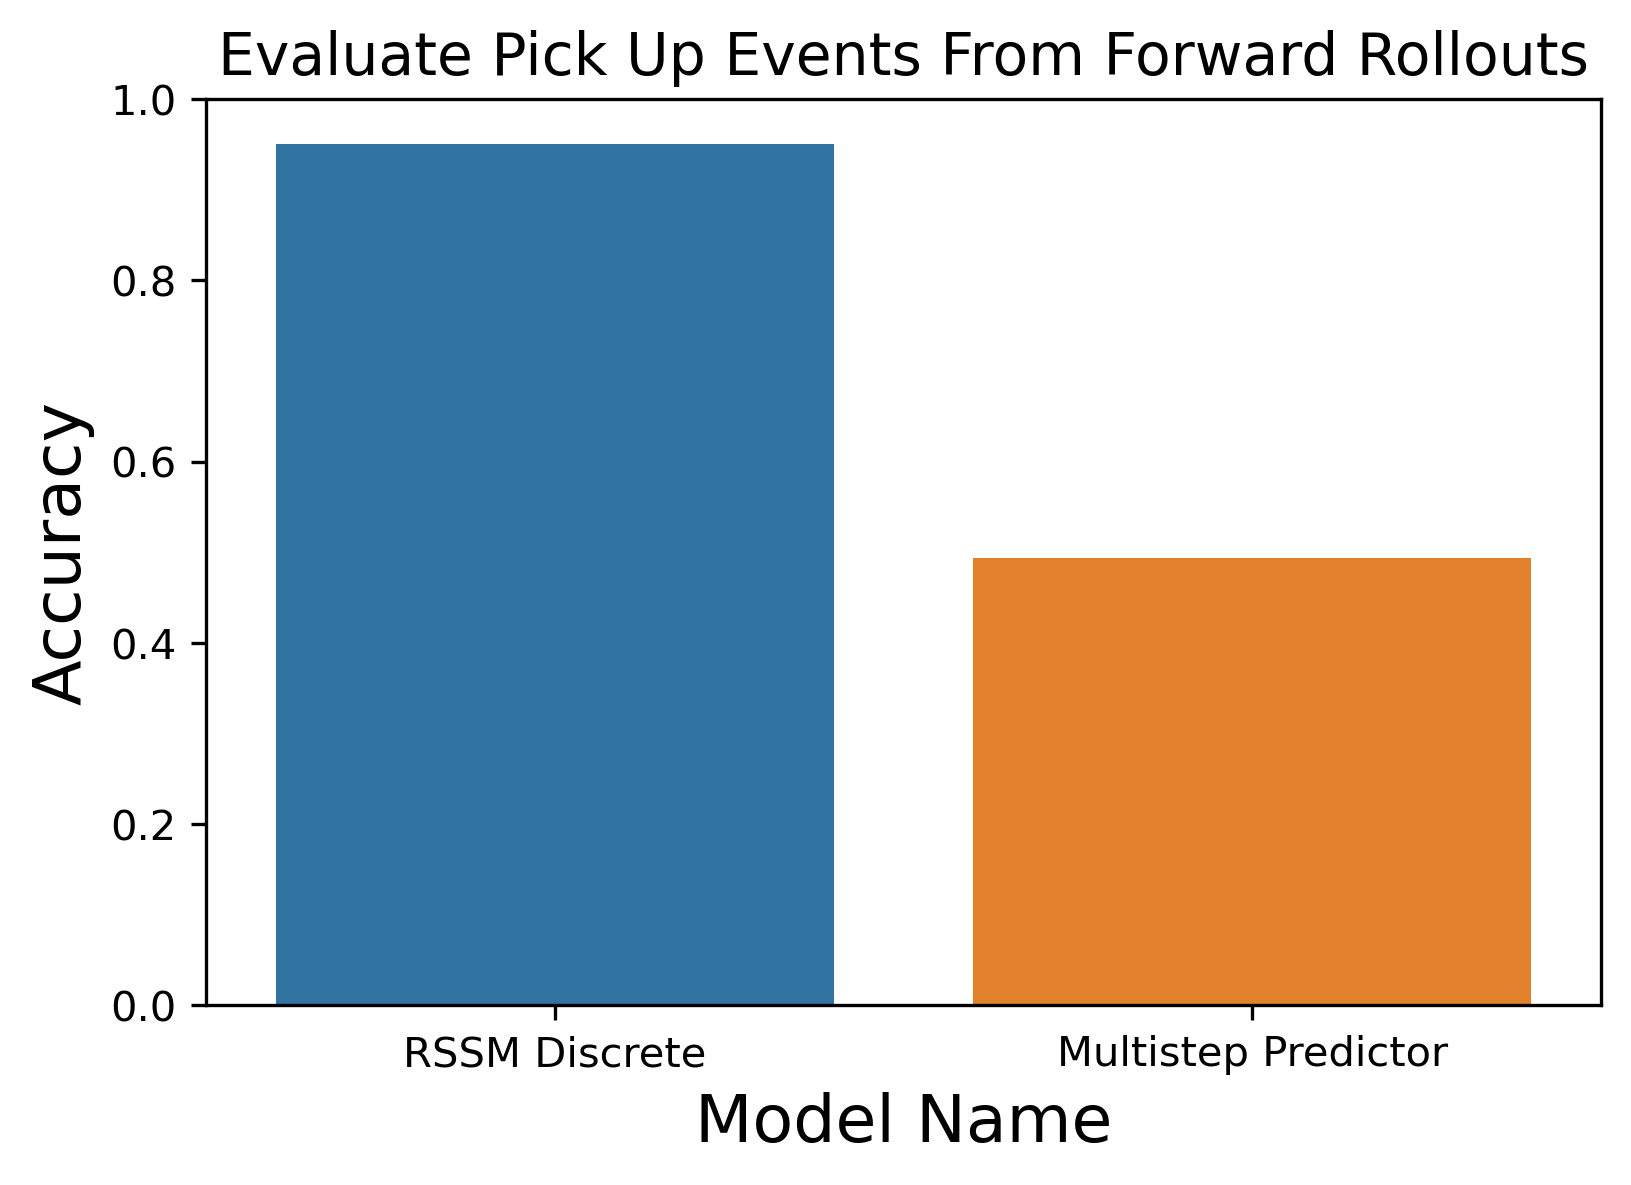
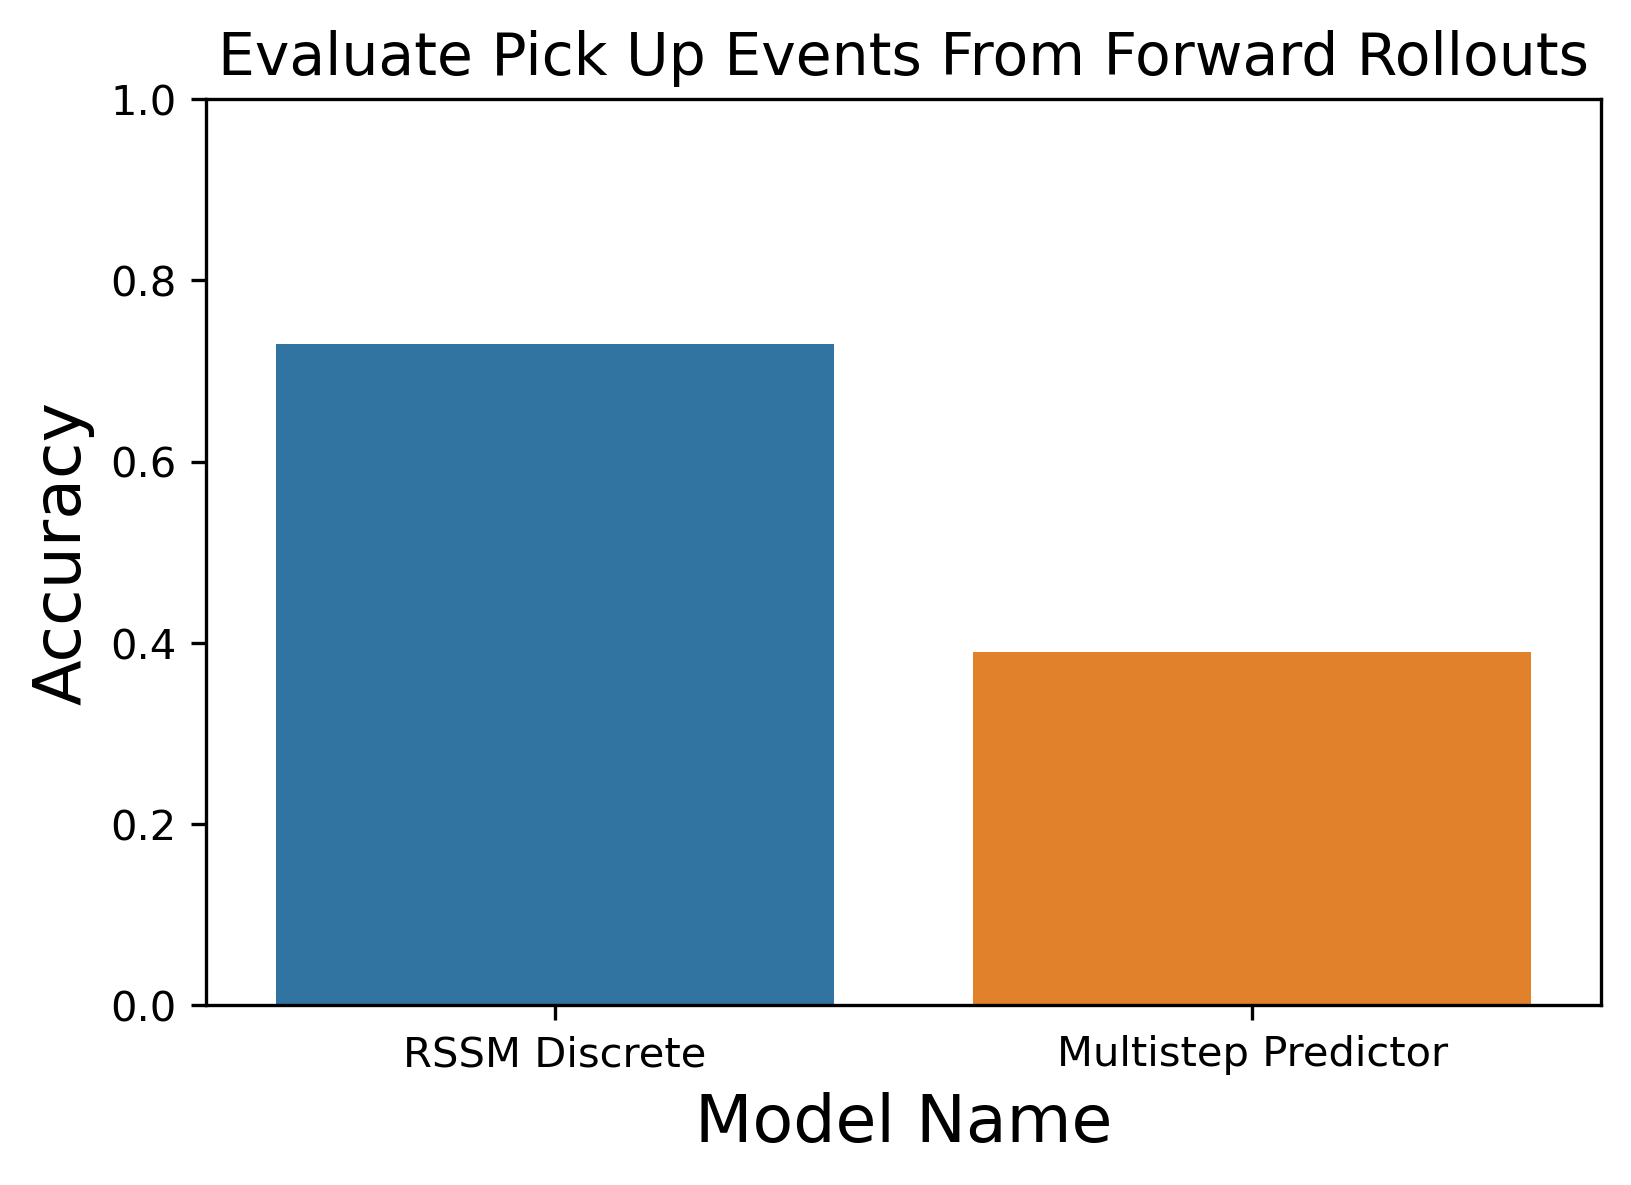
minor

Changed region(s): [[0.1533, 0.0937, 0.5212, 0.3122], [0.5825, 0.4684, 0.9503, 0.562]]

diff --git a/eval_rollouts_pickup_events.py b/eval_rollouts_pickup_events.py
@@ -151,7 +151,13 @@ def eval_pickup_events_in_rollouts(model, input_data, ds='First'):
         # get the only pick up point in the trajectory
         steps2pickup = np.max(pickup_timepoints[row,:]).astype(int)
         # burn in until right before the pick up point
-        burn_in_length = steps2pickup - 10
+        if steps2pickup > 15:
+            burn_in_length = steps2pickup - 10
+        elif steps2pickup > 10:
+            burn_in_length = steps2pickup - 5
+        else:
+            # TO DO - don't include trial if not enough burn in available
+            burn_in_length = steps2pickup - 1
         # store the steps before pick up with real frames in imagined_trajs
         imagined_trajs[i,:burn_in_length,:] = x[:,:burn_in_length,:].cpu()
         # rollout model for the rest of the trajectory
